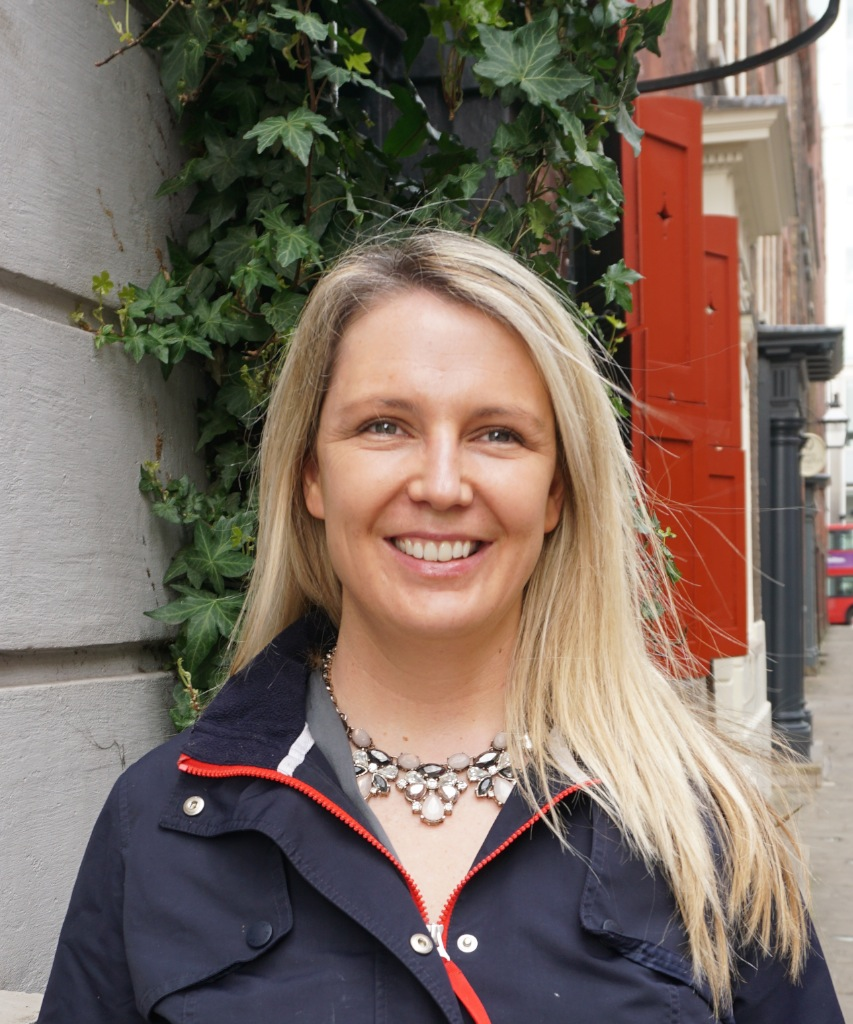
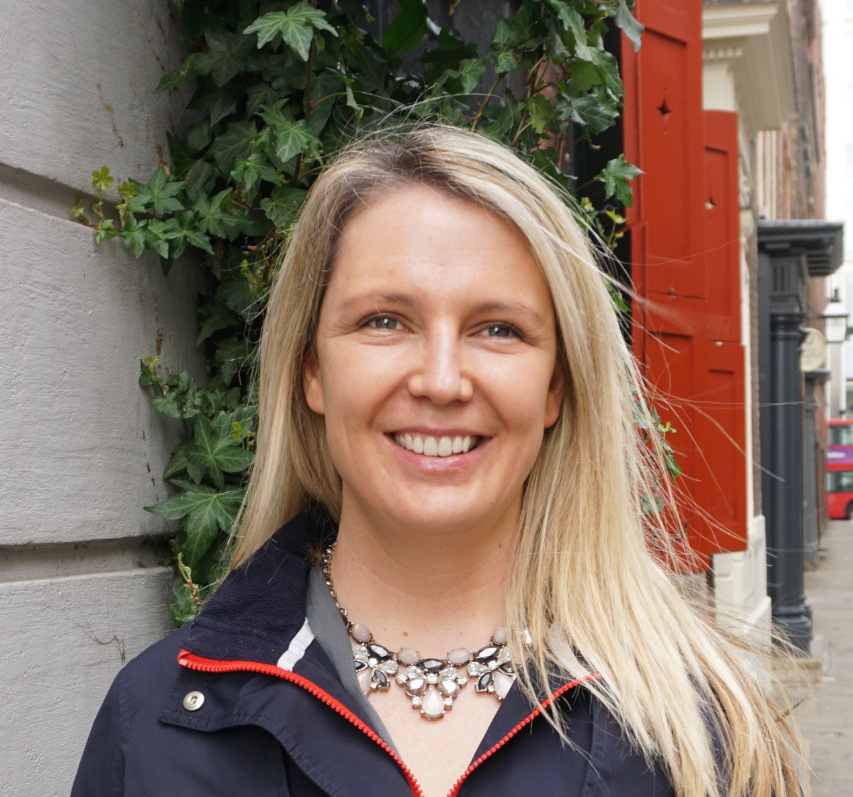
Add new Claire image and move 50th Gen to separate block

diff --git a/index.html b/index.html
@@ -124,11 +124,12 @@
             </p>
           </div>
         </div>
-        <div class="row backed">
-          Backed by </br>
-          <img src="img/50thgen.png" id="fifty"></img>
-        </div>
       </div>
+    </div>
+
+    <div class="jumbotron backed">
+        Backed by </br>
+        <img src="img/50thgen.png" id="fifty"></img>
     </div>
 
     <div class="jumbotron footer">

diff --git a/css/style.css b/css/style.css
@@ -17,7 +17,7 @@ body {
 .social-media {
 	text-align: right;
 	padding-left: 5px;
-	margin-top: -5px;
+	margin-top: -30px;
 }
 
 @media (max-width: 960px) {
@@ -103,9 +103,13 @@ body {
 }
 
 .backed {
-	margin-top: 20px;
+	background-color: #113C3E;
+	margin-bottom: 0px;
+	padding-top: 30px;
+	padding-bottom: 30px;
 	text-align: center;
 	font-size: 1.2em;
+	color: white;
 }
 
 #fifty {
